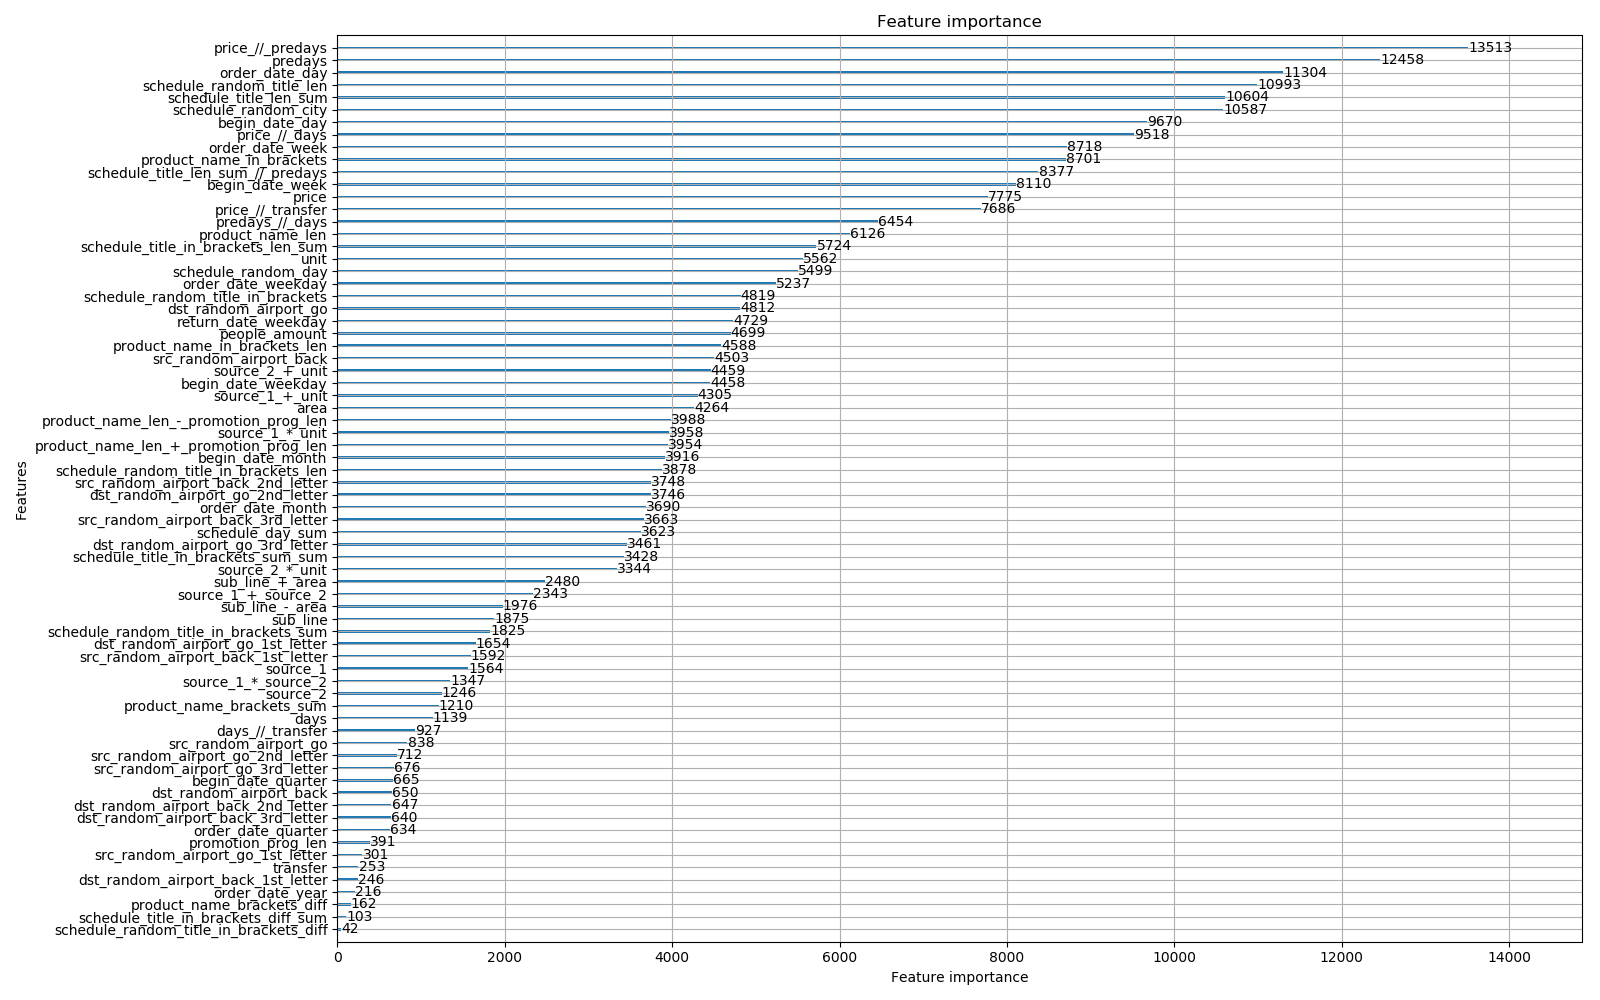
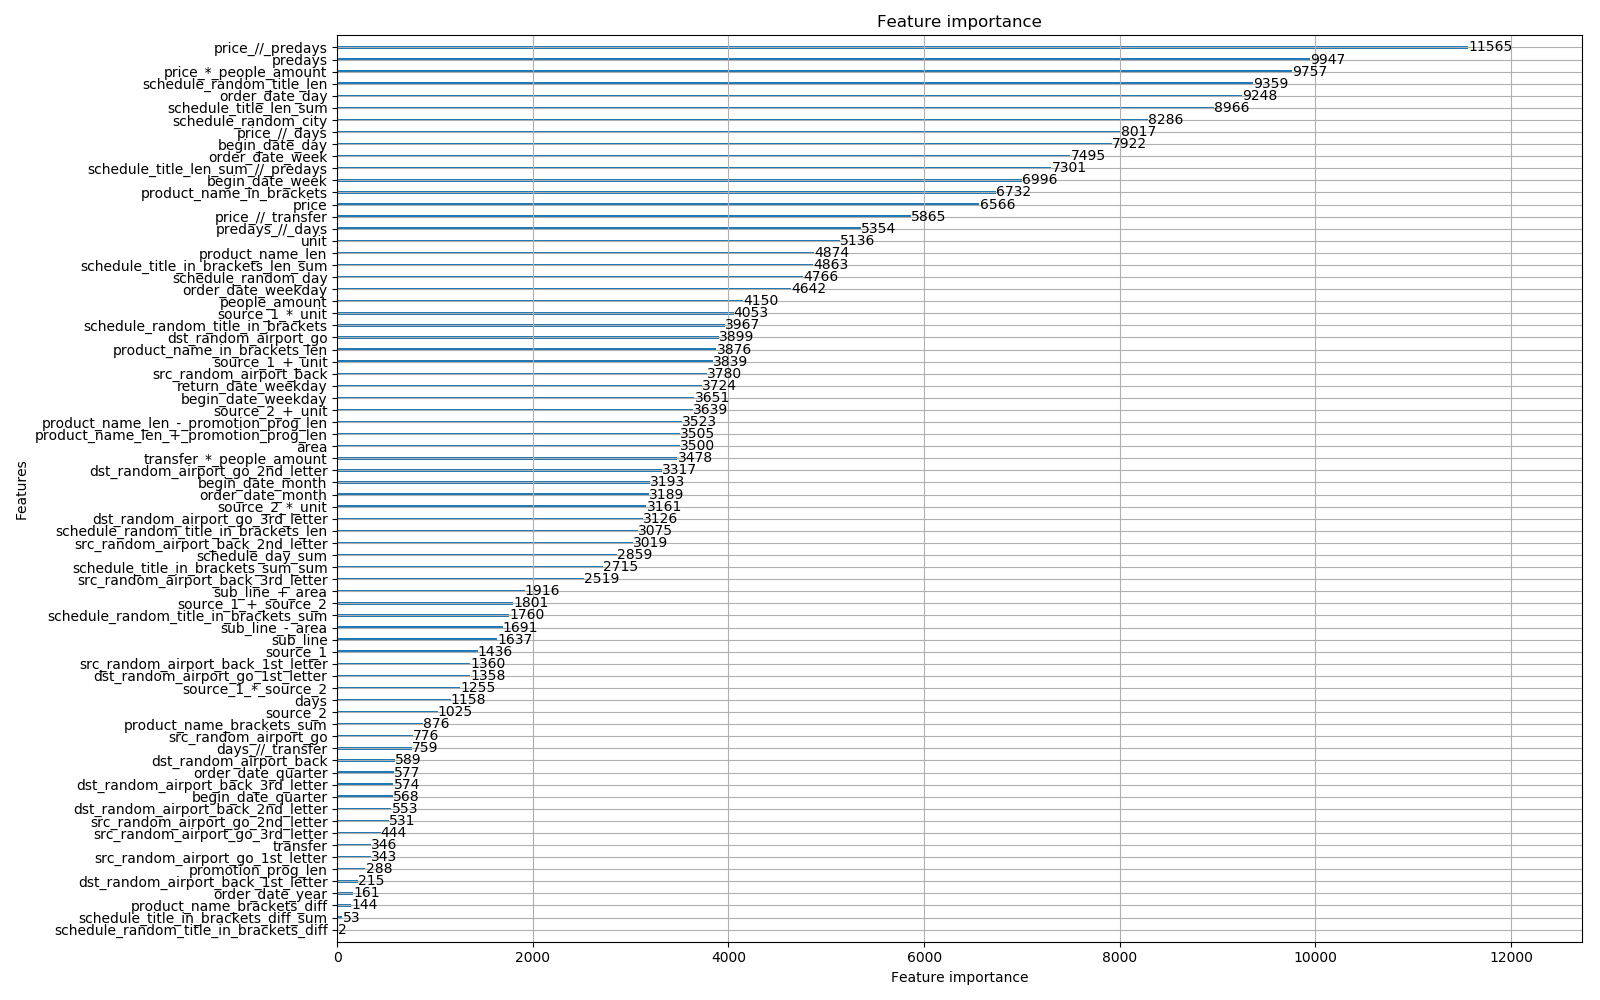
no message

Changed region(s): [[0.0312, 0.031, 1.0, 0.961]]

diff --git a/Travel order forecast/data_preprocessing.py b/Travel order forecast/data_preprocessing.py
@@ -132,6 +132,10 @@ df_order['price // transfer'] = df_order['price'] // df_order['transfer']
 df_order['sub_line + area'] = df_order['sub_line'] + df_order['area']
 df_order['sub_line - area'] = df_order['sub_line'] - df_order['area']
 
+df_order['price * people_amount'] = df_order['price'] * df_order['people_amount']
+df_order['transfer * people_amount'] = df_order['transfer'] * df_order['people_amount']
+
+
 print(df_order.describe())
 
 df_order.to_csv('df_order.csv', index=False)

diff --git a/Travel order forecast/lightgbm_classifier.py b/Travel order forecast/lightgbm_classifier.py
@@ -106,7 +106,9 @@ features = ['source_1',
             'days // transfer',
             'price // transfer',
             'sub_line + area',
-            'sub_line - area']
+            'sub_line - area',
+            'price * people_amount',
+            'transfer * people_amount']
 
 df_test = pd.merge(df_test, df_order, 'left')
 test_x = df_test[features]
